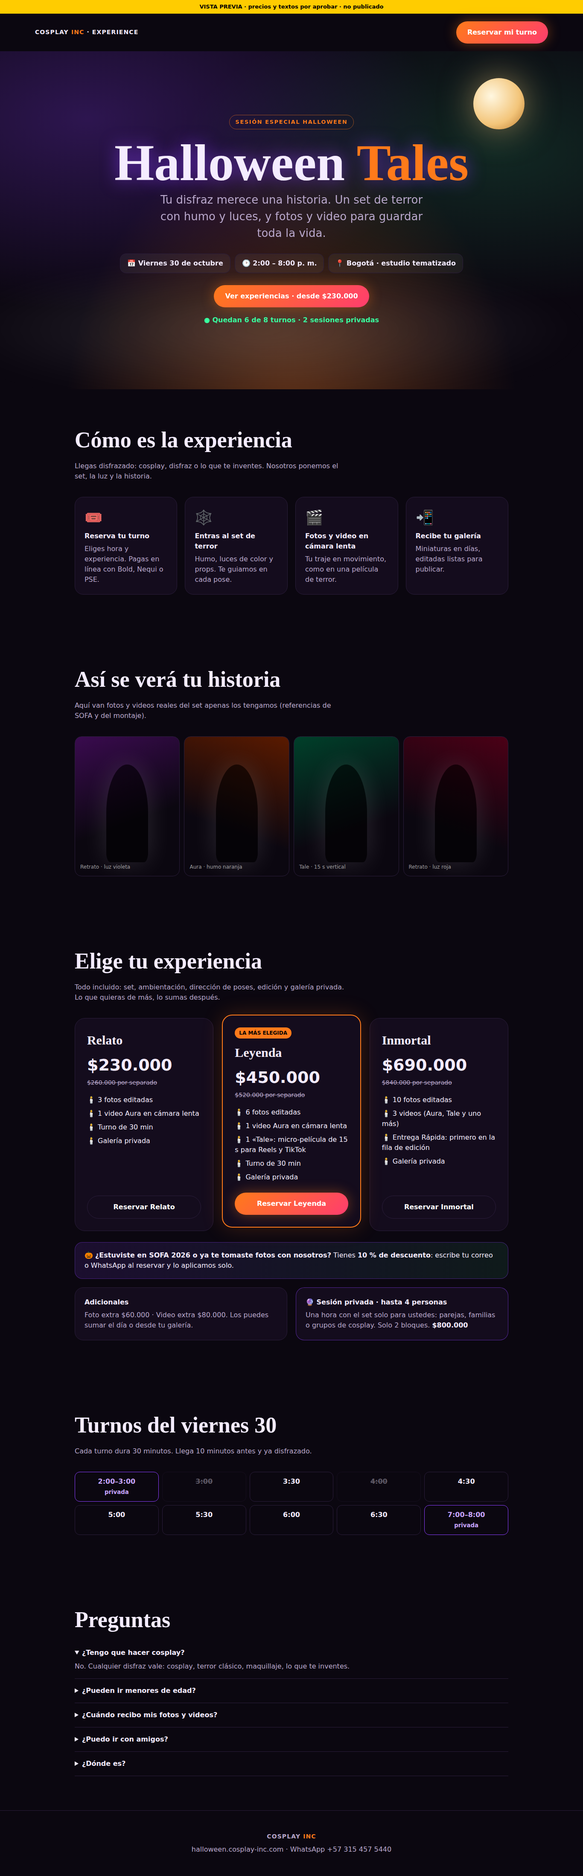
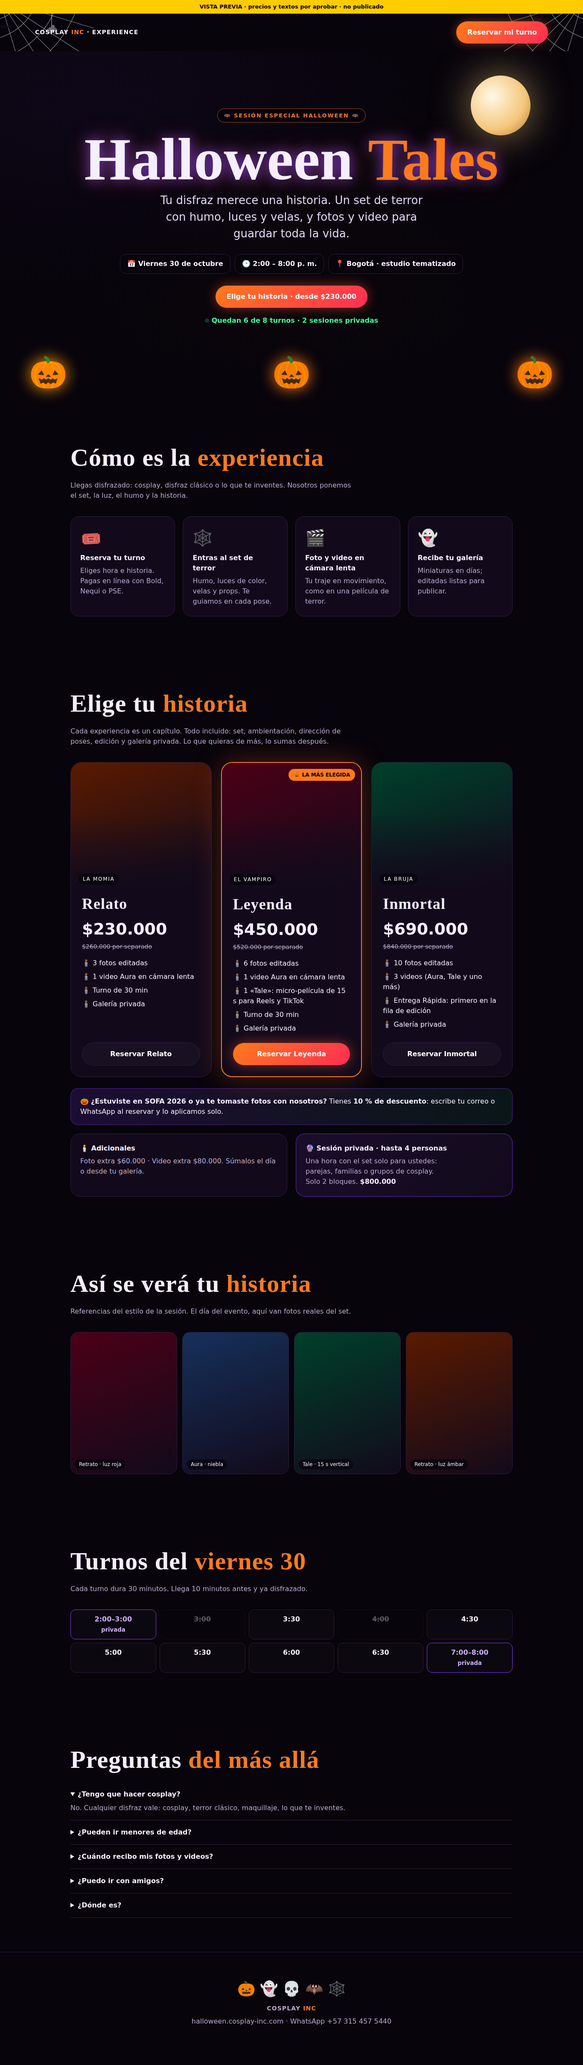
Halloween Tales: página animada con personajes, imágenes Higgsfield y análisis de precios
Claude-Session: https://claude.ai/code/session_015sFCdzMkc8c7GNsiUNJXDD

diff --git a/experiencias/halloween-tales/vista-previa/index.html b/experiencias/halloween-tales/vista-previa/index.html
@@ -4,164 +4,239 @@
 <meta charset="utf-8">
 <meta name="viewport" content="width=device-width, initial-scale=1">
 <title>Halloween Tales · Cosplay Inc</title>
-<link rel="preconnect" href="https://fonts.googleapis.com">
 <style>
-  :root{--fondo:#0b0710;--tinta:#f4ecff;--tenue:#b9a8cc;--naranja:#ff7a1a;--violeta:#8b3dff;--verde:#39ff9f;--borde:#2a1d3a;--tarjeta:#140c1d}
-  *{box-sizing:border-box;margin:0;padding:0}
-  body{background:var(--fondo);color:var(--tinta);font-family:system-ui,-apple-system,"Segoe UI",Roboto,sans-serif;line-height:1.5}
-  a{color:inherit;text-decoration:none}
-  .aviso{background:#ffcc00;color:#000;text-align:center;font-size:13px;font-weight:700;padding:6px}
-  header{display:flex;justify-content:space-between;align-items:center;padding:18px 6vw}
-  .logo{font-weight:800;letter-spacing:.08em;font-size:14px}
-  .logo span{color:var(--naranja)}
-  .boton{display:inline-block;background:linear-gradient(135deg,var(--naranja),#ff3d6e);color:#fff;font-weight:800;padding:14px 26px;border-radius:999px;box-shadow:0 0 30px #ff7a1a66}
-  .boton.sec{background:transparent;border:1px solid var(--borde);box-shadow:none}
-  .hero{position:relative;min-height:88vh;display:grid;place-items:center;text-align:center;padding:60px 6vw;overflow:hidden;
-    background:radial-gradient(ellipse at 50% 110%,#ff7a1a55,transparent 55%),radial-gradient(ellipse at 15% 20%,#8b3dff44,transparent 50%),radial-gradient(ellipse at 85% 30%,#39ff9f22,transparent 45%),var(--fondo)}
-  .niebla{position:absolute;inset:auto -10% -5% -10%;height:45%;background:radial-gradient(ellipse at center,#ffffff22,transparent 65%);filter:blur(30px);animation:niebla 9s ease-in-out infinite alternate}
-  @keyframes niebla{from{transform:translateX(-4%)}to{transform:translateX(4%)}}
-  .luna{position:absolute;top:8%;right:10%;width:120px;height:120px;border-radius:50%;background:radial-gradient(circle at 35% 35%,#fff7e0,#f3c57a 60%,#b9782b);box-shadow:0 0 80px #f3c57a88}
-  .etiqueta{display:inline-block;border:1px solid #ff7a1a88;color:var(--naranja);border-radius:999px;padding:6px 14px;font-size:13px;font-weight:700;letter-spacing:.12em;text-transform:uppercase}
-  h1{font-family:Georgia,"Times New Roman",serif;font-size:clamp(48px,10vw,120px);line-height:.95;margin:22px 0 10px;text-shadow:0 0 40px #8b3dffaa}
-  h1 em{font-style:normal;color:var(--naranja)}
-  .lema{font-size:clamp(18px,2.6vw,26px);color:var(--tenue);max-width:640px;margin:0 auto}
-  .datos{display:flex;flex-wrap:wrap;justify-content:center;gap:10px;margin:28px 0}
-  .dato{background:#ffffff0d;border:1px solid var(--borde);border-radius:14px;padding:10px 16px;font-weight:600}
-  .cupos{margin-top:18px;color:var(--verde);font-weight:700}
-  section{padding:80px 6vw;max-width:1180px;margin:0 auto}
-  h2{font-family:Georgia,serif;font-size:clamp(32px,5vw,52px);margin-bottom:10px}
-  .sub{color:var(--tenue);max-width:640px;margin-bottom:36px}
-  .pasos{display:grid;grid-template-columns:repeat(auto-fit,minmax(220px,1fr));gap:18px}
-  .paso{background:var(--tarjeta);border:1px solid var(--borde);border-radius:20px;padding:22px}
-  .paso b{display:block;font-size:34px;margin-bottom:6px}
-  .galeria{display:grid;grid-template-columns:repeat(4,1fr);gap:10px}
-  .foto{aspect-ratio:3/4;border-radius:16px;border:1px solid var(--borde);display:grid;place-items:end start;padding:12px;font-size:12px;color:#fff9;position:relative;overflow:hidden}
-  .foto:nth-child(1){background:linear-gradient(160deg,#3a0b4f,#0b0710 60%),#000}
-  .foto:nth-child(2){background:linear-gradient(200deg,#5a1a00,#0b0710 65%)}
-  .foto:nth-child(3){background:linear-gradient(160deg,#00402a,#0b0710 65%)}
-  .foto:nth-child(4){background:linear-gradient(200deg,#4b0016,#0b0710 65%)}
-  .foto::before{content:"";position:absolute;inset:20% 30% 10%;border-radius:50% 50% 10% 10%;background:#00000088;box-shadow:0 0 60px #ffffff22}
-  .paquetes{display:grid;grid-template-columns:repeat(auto-fit,minmax(260px,1fr));gap:20px;align-items:stretch}
-  .paquete{background:var(--tarjeta);border:1px solid var(--borde);border-radius:24px;padding:28px;display:flex;flex-direction:column}
-  .paquete.destacado{border:2px solid var(--naranja);box-shadow:0 0 50px #ff7a1a33;transform:translateY(-8px)}
-  .insignia{align-self:flex-start;background:var(--naranja);color:#000;font-size:12px;font-weight:800;border-radius:999px;padding:4px 10px;margin-bottom:10px}
-  .paquete h3{font-family:Georgia,serif;font-size:30px}
-  .precio{font-size:38px;font-weight:800;margin:8px 0 2px}
-  .antes{color:var(--tenue);font-size:14px;text-decoration:line-through}
-  .paquete ul{list-style:none;margin:18px 0 24px;display:grid;gap:8px}
-  .paquete li::before{content:"🕯 "}
-  .paquete .boton{margin-top:auto;text-align:center}
-  .comunidad{margin-top:26px;background:linear-gradient(90deg,#8b3dff22,#39ff9f14);border:1px solid #8b3dff66;border-radius:18px;padding:18px 22px}
-  .extra{display:grid;grid-template-columns:repeat(auto-fit,minmax(260px,1fr));gap:20px;margin-top:20px}
-  .caja{background:var(--tarjeta);border:1px solid var(--borde);border-radius:20px;padding:22px}
-  .turnos{display:grid;grid-template-columns:repeat(5,1fr);gap:8px}
-  .turno{border:1px solid var(--borde);border-radius:12px;padding:10px 0;text-align:center;font-weight:700}
-  .turno.lleno{opacity:.35;text-decoration:line-through}
-  .turno.privado{border-color:var(--violeta);color:#c9a6ff}
-  details{border-bottom:1px solid var(--borde);padding:16px 0}
-  summary{cursor:pointer;font-weight:700}
-  details p{color:var(--tenue);margin-top:8px}
-  footer{text-align:center;color:var(--tenue);padding:50px 6vw;border-top:1px solid var(--borde)}
-  .barra{position:fixed;left:0;right:0;bottom:0;display:none;padding:12px 16px;background:#0b0710ee;border-top:1px solid var(--borde)}
-  @media(max-width:700px){.galeria{grid-template-columns:repeat(2,1fr)}.turnos{grid-template-columns:repeat(3,1fr)}.paquete.destacado{transform:none}.luna{width:70px;height:70px}.barra{display:block}.barra .boton{display:block;text-align:center}header .boton{display:none}}
+:root{--fondo:#07040b;--tinta:#f6eeff;--tenue:#bba9cf;--naranja:#ff7a1a;--violeta:#8b3dff;--verde:#39ff9f;--rojo:#ff2d55;--borde:#2c1d3d;--tarjeta:#120a1b}
+*{box-sizing:border-box;margin:0;padding:0}
+html{scroll-behavior:smooth}
+body{background:var(--fondo);color:var(--tinta);font-family:system-ui,-apple-system,"Segoe UI",Roboto,sans-serif;line-height:1.5;overflow-x:hidden}
+a{color:inherit;text-decoration:none}
+.aviso{position:relative;z-index:50;background:#ffcc00;color:#000;text-align:center;font-size:13px;font-weight:700;padding:6px}
+/* ── capas animadas fijas ── */
+.capa{position:fixed;inset:0;pointer-events:none;z-index:1;overflow:hidden}
+.relampago{position:fixed;inset:0;background:#d9c9ff;opacity:0;pointer-events:none;z-index:2;animation:relampago 11s infinite}
+@keyframes relampago{0%,93%,100%{opacity:0}94%{opacity:.35}95%{opacity:0}96.5%{opacity:.22}97.5%{opacity:0}}
+.niebla{position:absolute;left:-30%;width:160%;height:38vh;bottom:-8vh;background:radial-gradient(ellipse at 30% 60%,#ffffff26,transparent 60%),radial-gradient(ellipse at 70% 50%,#cbb6ff1f,transparent 55%);filter:blur(28px);animation:niebla 18s ease-in-out infinite alternate}
+.niebla.n2{bottom:-14vh;height:30vh;opacity:.7;animation-duration:26s;animation-direction:alternate-reverse}
+@keyframes niebla{from{transform:translateX(-8%)}to{transform:translateX(8%)}}
+.fantasma{position:absolute;width:70px;opacity:.75;filter:drop-shadow(0 0 18px #ffffffaa);animation:flotar 7s ease-in-out infinite}
+.fantasma svg{width:100%;height:auto}
+@keyframes flotar{0%,100%{transform:translate(0,0) rotate(-4deg)}50%{transform:translate(18px,-26px) rotate(4deg)}}
+.fantasma.viaja{animation:viaje 24s linear infinite}
+@keyframes viaje{0%{transform:translate(-15vw,20vh);opacity:0}10%{opacity:.7}50%{transform:translate(50vw,5vh)}90%{opacity:.7}100%{transform:translate(115vw,25vh);opacity:0}}
+.murcielago{position:absolute;width:46px;animation:volar 14s linear infinite}
+.murcielago svg{width:100%;animation:aletear .25s ease-in-out infinite alternate;transform-origin:center}
+@keyframes aletear{from{transform:scaleY(1)}to{transform:scaleY(.45)}}
+@keyframes volar{0%{transform:translate(110vw,12vh)}100%{transform:translate(-20vw,-6vh)}}
+.telarana{position:absolute;width:220px;opacity:.55}
+.telarana.izq{top:0;left:0}.telarana.der{top:0;right:0;transform:scaleX(-1)}
+.arana{position:absolute;top:0;left:120px;width:2px;background:#ffffff66;animation:colgar 6s ease-in-out infinite}
+.arana::after{content:"🕷";position:absolute;bottom:-18px;left:-11px;font-size:22px}
+@keyframes colgar{0%,100%{height:60px}50%{height:190px}}
+/* ── encabezado ── */
+header{position:relative;z-index:10;display:flex;justify-content:space-between;align-items:center;padding:18px 6vw}
+.logo{font-weight:800;letter-spacing:.08em;font-size:14px}.logo span{color:var(--naranja)}
+.boton{display:inline-block;background:linear-gradient(135deg,var(--naranja),var(--rojo));color:#fff;font-weight:800;padding:14px 26px;border-radius:999px;box-shadow:0 0 30px #ff7a1a77;transition:transform .2s;animation:latido 2.6s ease-in-out infinite}
+.boton:hover{transform:scale(1.06)}
+@keyframes latido{0%,100%{box-shadow:0 0 22px #ff7a1a66}50%{box-shadow:0 0 44px #ff2d55aa}}
+.boton.sec{background:#ffffff08;border:1px solid var(--borde);box-shadow:none;animation:none}
+/* ── portada ── */
+.hero{position:relative;z-index:5;min-height:92vh;display:grid;place-items:center;text-align:center;padding:70px 6vw 120px;overflow:hidden;
+ background:linear-gradient(180deg,#07040bcc,#07040b 92%),url("https://d8j0ntlcm91z4.cloudfront.net/user_3GpmMSlhlwuiXiNZMT5QXNIqOkj/hf_20261015_162303_849728c2-830c-4a16-934f-2665082defdd.png") center/cover,radial-gradient(ellipse at 50% 110%,#ff7a1a66,transparent 55%),radial-gradient(ellipse at 15% 20%,#8b3dff55,transparent 50%),var(--fondo)}
+.luna{position:absolute;top:7%;right:9%;width:140px;height:140px;border-radius:50%;background:radial-gradient(circle at 35% 35%,#fff8e6,#f4c77c 60%,#b7772b);box-shadow:0 0 90px #f4c77c99;animation:luna 6s ease-in-out infinite}
+@keyframes luna{50%{box-shadow:0 0 140px #f4c77ccc}}
+.etiqueta{display:inline-block;border:1px solid #ff7a1a99;color:var(--naranja);border-radius:999px;padding:6px 14px;font-size:13px;font-weight:700;letter-spacing:.14em;text-transform:uppercase;background:#07040b99}
+h1{font-family:"Creepster",Georgia,serif;font-size:clamp(56px,11vw,140px);line-height:.92;margin:22px 0 12px;text-shadow:0 0 30px #8b3dffcc,0 0 60px #ff7a1a55;animation:titila 4s infinite}
+h1 em{font-style:normal;color:var(--naranja);display:inline-block;animation:goteo 3s ease-in-out infinite}
+@keyframes titila{0%,100%{opacity:1}92%{opacity:1}93%{opacity:.4}94%{opacity:1}96%{opacity:.6}97%{opacity:1}}
+@keyframes goteo{50%{transform:translateY(4px) skewX(-3deg)}}
+.lema{font-size:clamp(18px,2.6vw,26px);color:#e4d6f5;max-width:660px;margin:0 auto}
+.datos{display:flex;flex-wrap:wrap;justify-content:center;gap:10px;margin:28px 0}
+.dato{background:#07040bb3;border:1px solid var(--borde);border-radius:14px;padding:10px 16px;font-weight:600;backdrop-filter:blur(4px)}
+.cupos{margin-top:18px;color:var(--verde);font-weight:700}.cupos b{display:inline-block;width:10px;height:10px;border-radius:50%;background:var(--verde);margin-right:6px;animation:parpadeo 1.2s infinite}
+@keyframes parpadeo{50%{opacity:.2}}
+.calabazas{position:absolute;bottom:22px;left:0;right:0;display:flex;justify-content:space-between;padding:0 5vw;z-index:6;pointer-events:none}
+.calabaza{font-size:clamp(42px,6vw,72px);animation:brillo 2.2s ease-in-out infinite;filter:drop-shadow(0 0 18px #ff7a1a)}
+.calabaza:nth-child(2){animation-delay:.7s}.calabaza:nth-child(3){animation-delay:1.4s}
+@keyframes brillo{0%,100%{filter:drop-shadow(0 0 10px #ff7a1a) brightness(.9)}45%{filter:drop-shadow(0 0 28px #ffb000) brightness(1.25)}55%{filter:drop-shadow(0 0 14px #ff7a1a) brightness(1)}}
+.calavera{position:absolute;font-size:34px;opacity:.5;animation:girar 9s ease-in-out infinite}
+@keyframes girar{0%,100%{transform:rotate(-12deg) translateY(0)}50%{transform:rotate(12deg) translateY(-14px)}}
+/* ── secciones ── */
+main{position:relative;z-index:5}
+section{padding:80px 6vw;max-width:1200px;margin:0 auto}
+h2{font-family:"Creepster",Georgia,serif;font-size:clamp(34px,5.4vw,58px);margin-bottom:10px;letter-spacing:.02em}
+h2 span{color:var(--naranja)}
+.sub{color:var(--tenue);max-width:660px;margin-bottom:36px}
+.pasos{display:grid;grid-template-columns:repeat(auto-fit,minmax(220px,1fr));gap:18px}
+.paso{background:var(--tarjeta);border:1px solid var(--borde);border-radius:20px;padding:22px;transition:transform .3s,border-color .3s}
+.paso:hover{transform:translateY(-6px);border-color:var(--naranja)}
+.paso b{display:block;font-size:38px;margin-bottom:6px;animation:flotar 5s ease-in-out infinite}
+.paso:nth-child(2) b{animation-delay:1s}.paso:nth-child(3) b{animation-delay:2s}.paso:nth-child(4) b{animation-delay:3s}
+/* ── paquetes con personajes ── */
+.paquetes{display:grid;grid-template-columns:repeat(auto-fit,minmax(280px,1fr));gap:22px;align-items:stretch}
+.paquete{position:relative;border:1px solid var(--borde);border-radius:26px;overflow:hidden;display:flex;flex-direction:column;background:var(--tarjeta);transition:transform .35s}
+.paquete:hover{transform:translateY(-8px) rotate(-.5deg)}
+.retrato{height:300px;background-size:cover;background-position:center 20%;position:relative}
+.retrato::after{content:"";position:absolute;inset:0;background:linear-gradient(180deg,transparent 40%,var(--tarjeta))}
+.retrato .personaje{position:absolute;left:18px;bottom:14px;z-index:2;font-size:12px;letter-spacing:.14em;text-transform:uppercase;color:#fff;background:#07040bb3;border-radius:999px;padding:4px 10px}
+.paquete .cuerpo{padding:4px 26px 26px;display:flex;flex-direction:column;flex:1}
+.paquete.destacado{border:2px solid var(--naranja);box-shadow:0 0 60px #ff7a1a44;animation:aura 3s ease-in-out infinite}
+@keyframes aura{50%{box-shadow:0 0 90px #ff2d5566}}
+.insignia{position:absolute;top:14px;right:14px;z-index:3;background:var(--naranja);color:#000;font-size:12px;font-weight:800;border-radius:999px;padding:5px 12px}
+.paquete h3{font-family:"Creepster",Georgia,serif;font-size:36px;letter-spacing:.03em}
+.precio{font-size:38px;font-weight:800;margin:4px 0 2px}
+.antes{color:var(--tenue);font-size:14px;text-decoration:line-through}
+.paquete ul{list-style:none;margin:16px 0 22px;display:grid;gap:8px}
+.paquete li::before{content:"🕯 ";animation:vela 1.4s infinite}
+@keyframes vela{50%{opacity:.6}}
+.paquete .boton{margin-top:auto;text-align:center}
+.comunidad{margin-top:26px;background:linear-gradient(90deg,#8b3dff2a,#39ff9f14);border:1px solid #8b3dff77;border-radius:18px;padding:18px 22px}
+.extra{display:grid;grid-template-columns:repeat(auto-fit,minmax(280px,1fr));gap:20px;margin-top:20px}
+.caja{background:var(--tarjeta);border:1px solid var(--borde);border-radius:22px;padding:22px;position:relative;overflow:hidden}
+.caja.privada{border-color:#8b3dffaa;background:linear-gradient(135deg,#1a0d2b,#120a1b)}
+.caja.privada .fondo{position:absolute;right:-20px;bottom:-20px;width:170px;height:220px;background:url("https://d8j0ntlcm91z4.cloudfront.net/user_3GpmMSlhlwuiXiNZMT5QXNIqOkj/hf_20261015_162302_8e1e8264-ac9d-4503-8ead-c0cae7add087.png") center/cover;opacity:.35;border-radius:20px;mask-image:linear-gradient(90deg,transparent,#000)}
+.galeria{display:grid;grid-template-columns:repeat(4,1fr);gap:12px}
+.foto{aspect-ratio:3/4;border-radius:18px;border:1px solid var(--borde);background-size:cover;background-position:center;position:relative;overflow:hidden;transition:transform .4s}
+.foto:hover{transform:scale(1.04)}
+.foto span{position:absolute;left:10px;bottom:10px;font-size:12px;background:#07040bb3;padding:3px 9px;border-radius:999px}
+.turnos{display:grid;grid-template-columns:repeat(5,1fr);gap:8px}
+.turno{border:1px solid var(--borde);border-radius:12px;padding:10px 0;text-align:center;font-weight:700;background:#ffffff05}
+.turno.lleno{opacity:.35;text-decoration:line-through}
+.turno.privado{border-color:var(--violeta);color:#cfaeff}
+details{border-bottom:1px solid var(--borde);padding:16px 0}summary{cursor:pointer;font-weight:700}details p{color:var(--tenue);margin-top:8px}
+footer{position:relative;z-index:5;text-align:center;color:var(--tenue);padding:60px 6vw 90px;border-top:1px solid var(--borde)}
+.barra{position:fixed;left:0;right:0;bottom:0;z-index:40;display:none;padding:12px 16px;background:#07040bee;border-top:1px solid var(--borde)}
+@media(max-width:700px){.galeria{grid-template-columns:repeat(2,1fr)}.turnos{grid-template-columns:repeat(3,1fr)}.luna{width:80px;height:80px}.barra{display:block}.barra .boton{display:block;text-align:center}header .boton{display:none}.telarana{width:130px}.fantasma{width:48px}}
+@media(prefers-reduced-motion:reduce){*,*::before,*::after{animation:none!important}}
 </style>
+<link href="https://fonts.googleapis.com/css2?family=Creepster&display=swap" rel="stylesheet">
 </head>
 <body>
 <div class="aviso">VISTA PREVIA · precios y textos por aprobar · no publicado</div>
+
+<!-- capas animadas -->
+<div class="relampago"></div>
+<div class="capa" aria-hidden="true">
+  <svg class="telarana izq" viewBox="0 0 200 200"><g fill="none" stroke="#fff" stroke-width="1"><path d="M0 0L200 200M0 0L200 60M0 0L60 200M0 0L130 200M0 0L200 130"/><path d="M40 0Q30 30 0 40M80 0Q60 60 0 80M125 0Q95 95 0 125M170 0Q130 130 0 170"/></g></svg>
+  <svg class="telarana der" viewBox="0 0 200 200"><g fill="none" stroke="#fff" stroke-width="1"><path d="M0 0L200 200M0 0L200 60M0 0L60 200M0 0L130 200M0 0L200 130"/><path d="M40 0Q30 30 0 40M80 0Q60 60 0 80M125 0Q95 95 0 125M170 0Q130 130 0 170"/></g></svg>
+  <div class="arana"></div>
+  <div class="fantasma" style="top:28%;left:6%"><svg viewBox="0 0 100 120"><path d="M50 5C25 5 10 25 10 50v60l13-10 13 10 14-10 14 10 13-10 13 10V50C90 25 75 5 50 5z" fill="#f4f0ff"/><circle cx="36" cy="48" r="7" fill="#1b1027"/><circle cx="64" cy="48" r="7" fill="#1b1027"/><ellipse cx="50" cy="72" rx="8" ry="10" fill="#1b1027"/></svg></div>
+  <div class="fantasma" style="top:55%;right:5%;animation-delay:2s"><svg viewBox="0 0 100 120"><path d="M50 5C25 5 10 25 10 50v60l13-10 13 10 14-10 14 10 13-10 13 10V50C90 25 75 5 50 5z" fill="#f4f0ff"/><circle cx="36" cy="48" r="7" fill="#1b1027"/><circle cx="64" cy="48" r="7" fill="#1b1027"/><path d="M38 70q12 10 24 0" stroke="#1b1027" stroke-width="5" fill="none"/></svg></div>
+  <div class="fantasma viaja" style="top:0;left:0;width:56px"><svg viewBox="0 0 100 120"><path d="M50 5C25 5 10 25 10 50v60l13-10 13 10 14-10 14 10 13-10 13 10V50C90 25 75 5 50 5z" fill="#e9e2ff"/><circle cx="36" cy="48" r="7" fill="#1b1027"/><circle cx="64" cy="48" r="7" fill="#1b1027"/></svg></div>
+  <div class="murcielago" style="top:10%"><svg viewBox="0 0 100 50"><path d="M50 20c-4-8-10-8-12-2-6-10-20-12-38-4 12 2 18 10 18 18 6-6 14-4 18 2 4-6 10-6 14-4 4-2 10-2 14 4 4-6 12-8 18-2 0-8 6-16 18-18-18-8-32-6-38 4-2-6-8-6-12 2z" fill="#140a1f"/></svg></div>
+  <div class="murcielago" style="top:22%;animation-delay:4s;animation-duration:17s;width:34px"><svg viewBox="0 0 100 50"><path d="M50 20c-4-8-10-8-12-2-6-10-20-12-38-4 12 2 18 10 18 18 6-6 14-4 18 2 4-6 10-6 14-4 4-2 10-2 14 4 4-6 12-8 18-2 0-8 6-16 18-18-18-8-32-6-38 4-2-6-8-6-12 2z" fill="#140a1f"/></svg></div>
+  <div class="murcielago" style="top:6%;animation-delay:9s;animation-duration:12s;width:28px"><svg viewBox="0 0 100 50"><path d="M50 20c-4-8-10-8-12-2-6-10-20-12-38-4 12 2 18 10 18 18 6-6 14-4 18 2 4-6 10-6 14-4 4-2 10-2 14 4 4-6 12-8 18-2 0-8 6-16 18-18-18-8-32-6-38 4-2-6-8-6-12 2z" fill="#140a1f"/></svg></div>
+  <div class="calavera" style="top:40%;left:2%">💀</div>
+  <div class="calavera" style="top:75%;right:3%;animation-delay:3s">💀</div>
+  <div class="niebla"></div><div class="niebla n2"></div>
+</div>
+
 <header>
   <div class="logo">COSPLAY <span>INC</span> · EXPERIENCE</div>
   <a class="boton" href="#paquetes">Reservar mi turno</a>
 </header>
 
 <div class="hero">
-  <div class="luna"></div><div class="niebla"></div>
-  <div style="position:relative">
-    <span class="etiqueta">Sesión especial Halloween</span>
+  <div class="luna"></div>
+  <div style="position:relative;z-index:7">
+    <span class="etiqueta">🦇 Sesión especial Halloween 🦇</span>
     <h1>Halloween <em>Tales</em></h1>
-    <p class="lema">Tu disfraz merece una historia. Un set de terror con humo y luces, y fotos y video para guardar toda la vida.</p>
+    <p class="lema">Tu disfraz merece una historia. Un set de terror con humo, luces y velas, y fotos y video para guardar toda la vida.</p>
     <div class="datos">
       <span class="dato">📅 Viernes 30 de octubre</span>
       <span class="dato">🕑 2:00 – 8:00 p. m.</span>
       <span class="dato">📍 Bogotá · estudio tematizado</span>
     </div>
-    <a class="boton" href="#paquetes">Ver experiencias · desde $230.000</a>
-    <p class="cupos">● Quedan 6 de 8 turnos · 2 sesiones privadas</p>
+    <a class="boton" href="#paquetes">Elige tu historia · desde $230.000</a>
+    <p class="cupos"><b></b>Quedan 6 de 8 turnos · 2 sesiones privadas</p>
   </div>
+  <div class="calabazas"><span class="calabaza">🎃</span><span class="calabaza">🎃</span><span class="calabaza">🎃</span></div>
 </div>
 
+<main>
 <section>
-  <h2>Cómo es la experiencia</h2>
-  <p class="sub">Llegas disfrazado: cosplay, disfraz o lo que te inventes. Nosotros ponemos el set, la luz y la historia.</p>
+  <h2>Cómo es la <span>experiencia</span></h2>
+  <p class="sub">Llegas disfrazado: cosplay, disfraz clásico o lo que te inventes. Nosotros ponemos el set, la luz, el humo y la historia.</p>
   <div class="pasos">
-    <div class="paso"><b>🎟</b><strong>Reserva tu turno</strong><p class="sub" style="margin:6px 0 0">Eliges hora y experiencia. Pagas en línea con Bold, Nequi o PSE.</p></div>
-    <div class="paso"><b>🕸</b><strong>Entras al set de terror</strong><p class="sub" style="margin:6px 0 0">Humo, luces de color y props. Te guiamos en cada pose.</p></div>
-    <div class="paso"><b>🎬</b><strong>Fotos y video en cámara lenta</strong><p class="sub" style="margin:6px 0 0">Tu traje en movimiento, como en una película de terror.</p></div>
-    <div class="paso"><b>📲</b><strong>Recibe tu galería</strong><p class="sub" style="margin:6px 0 0">Miniaturas en días, editadas listas para publicar.</p></div>
-  </div>
-</section>
-
-<section>
-  <h2>Así se verá tu historia</h2>
-  <p class="sub">Aquí van fotos y videos reales del set apenas los tengamos (referencias de SOFA y del montaje).</p>
-  <div class="galeria">
-    <div class="foto">Retrato · luz violeta</div>
-    <div class="foto">Aura · humo naranja</div>
-    <div class="foto">Tale · 15 s vertical</div>
-    <div class="foto">Retrato · luz roja</div>
+    <div class="paso"><b>🎟</b><strong>Reserva tu turno</strong><p class="sub" style="margin:6px 0 0">Eliges hora e historia. Pagas en línea con Bold, Nequi o PSE.</p></div>
+    <div class="paso"><b>🕸</b><strong>Entras al set de terror</strong><p class="sub" style="margin:6px 0 0">Humo, luces de color, velas y props. Te guiamos en cada pose.</p></div>
+    <div class="paso"><b>🎬</b><strong>Foto y video en cámara lenta</strong><p class="sub" style="margin:6px 0 0">Tu traje en movimiento, como en una película de terror.</p></div>
+    <div class="paso"><b>👻</b><strong>Recibe tu galería</strong><p class="sub" style="margin:6px 0 0">Miniaturas en días; editadas listas para publicar.</p></div>
   </div>
 </section>
 
 <section id="paquetes">
-  <h2>Elige tu experiencia</h2>
-  <p class="sub">Todo incluido: set, ambientación, dirección de poses, edición y galería privada. Lo que quieras de más, lo sumas después.</p>
+  <h2>Elige tu <span>historia</span></h2>
+  <p class="sub">Cada experiencia es un capítulo. Todo incluido: set, ambientación, dirección de poses, edición y galería privada. Lo que quieras de más, lo sumas después.</p>
   <div class="paquetes">
     <div class="paquete">
-      <h3>Relato</h3>
-      <div class="precio">$230.000</div><div class="antes">$260.000 por separado</div>
-      <ul><li>3 fotos editadas</li><li>1 video Aura en cámara lenta</li><li>Turno de 30 min</li><li>Galería privada</li></ul>
-      <a class="boton sec" href="#">Reservar Relato</a>
+      <div class="retrato" style="background-image:url('https://d8j0ntlcm91z4.cloudfront.net/user_3GpmMSlhlwuiXiNZMT5QXNIqOkj/hf_20261015_162303_5203dd35-5ed4-409b-836b-36178c081cd9.png'),linear-gradient(160deg,#5a1a00,#120a1b)"><span class="personaje">La Momia</span></div>
+      <div class="cuerpo">
+        <h3>Relato</h3>
+        <div class="precio">$230.000</div><div class="antes">$260.000 por separado</div>
+        <ul><li>3 fotos editadas</li><li>1 video Aura en cámara lenta</li><li>Turno de 30 min</li><li>Galería privada</li></ul>
+        <a class="boton sec" href="#">Reservar Relato</a>
+      </div>
     </div>
     <div class="paquete destacado">
-      <span class="insignia">LA MÁS ELEGIDA</span>
-      <h3>Leyenda</h3>
-      <div class="precio">$450.000</div><div class="antes">$520.000 por separado</div>
-      <ul><li>6 fotos editadas</li><li>1 video Aura en cámara lenta</li><li>1 «Tale»: micro-película de 15 s para Reels y TikTok</li><li>Turno de 30 min</li><li>Galería privada</li></ul>
-      <a class="boton" href="#">Reservar Leyenda</a>
+      <span class="insignia">🎃 LA MÁS ELEGIDA</span>
+      <div class="retrato" style="background-image:url('https://d8j0ntlcm91z4.cloudfront.net/user_3GpmMSlhlwuiXiNZMT5QXNIqOkj/hf_20261015_162327_268b13db-2ada-4bbe-8584-8db9639793de.png'),linear-gradient(160deg,#4b0016,#120a1b)"><span class="personaje">El Vampiro</span></div>
+      <div class="cuerpo">
+        <h3>Leyenda</h3>
+        <div class="precio">$450.000</div><div class="antes">$520.000 por separado</div>
+        <ul><li>6 fotos editadas</li><li>1 video Aura en cámara lenta</li><li>1 «Tale»: micro-película de 15 s para Reels y TikTok</li><li>Turno de 30 min</li><li>Galería privada</li></ul>
+        <a class="boton" href="#">Reservar Leyenda</a>
+      </div>
     </div>
     <div class="paquete">
-      <h3>Inmortal</h3>
-      <div class="precio">$690.000</div><div class="antes">$840.000 por separado</div>
-      <ul><li>10 fotos editadas</li><li>3 videos (Aura, Tale y uno más)</li><li>Entrega Rápida: primero en la fila de edición</li><li>Galería privada</li></ul>
-      <a class="boton sec" href="#">Reservar Inmortal</a>
+      <div class="retrato" style="background-image:url('https://d8j0ntlcm91z4.cloudfront.net/user_3GpmMSlhlwuiXiNZMT5QXNIqOkj/hf_20261015_162327_3815e883-7166-4349-a964-6bba51e9df03.png'),linear-gradient(160deg,#00402a,#120a1b)"><span class="personaje">La Bruja</span></div>
+      <div class="cuerpo">
+        <h3>Inmortal</h3>
+        <div class="precio">$690.000</div><div class="antes">$840.000 por separado</div>
+        <ul><li>10 fotos editadas</li><li>3 videos (Aura, Tale y uno más)</li><li>Entrega Rápida: primero en la fila de edición</li><li>Galería privada</li></ul>
+        <a class="boton sec" href="#">Reservar Inmortal</a>
+      </div>
     </div>
   </div>
   <div class="comunidad">🎃 <strong>¿Estuviste en SOFA 2026 o ya te tomaste fotos con nosotros?</strong> Tienes <strong>10 % de descuento</strong>: escribe tu correo o WhatsApp al reservar y lo aplicamos solo.</div>
   <div class="extra">
-    <div class="caja"><strong>Adicionales</strong><p class="sub" style="margin:6px 0 0">Foto extra $60.000 · Video extra $80.000. Los puedes sumar el día o desde tu galería.</p></div>
-    <div class="caja" style="border-color:#8b3dff88"><strong>🔮 Sesión privada · hasta 4 personas</strong><p class="sub" style="margin:6px 0 0">Una hora con el set solo para ustedes: parejas, familias o grupos de cosplay. Solo 2 bloques. <b style="color:var(--tinta)">$800.000</b></p></div>
+    <div class="caja"><strong>🕯 Adicionales</strong><p class="sub" style="margin:6px 0 0">Foto extra $60.000 · Video extra $80.000. Súmalos el día o desde tu galería.</p></div>
+    <div class="caja privada"><div class="fondo"></div><strong>🔮 Sesión privada · hasta 4 personas</strong><p class="sub" style="margin:6px 0 0;max-width:70%">Una hora con el set solo para ustedes: parejas, familias o grupos de cosplay. Solo 2 bloques. <b style="color:var(--tinta)">$800.000</b></p></div>
   </div>
 </section>
 
 <section>
-  <h2>Turnos del viernes 30</h2>
+  <h2>Así se verá tu <span>historia</span></h2>
+  <p class="sub">Referencias del estilo de la sesión. El día del evento, aquí van fotos reales del set.</p>
+  <div class="galeria">
+    <div class="foto" style="background-image:url('https://d8j0ntlcm91z4.cloudfront.net/user_3GpmMSlhlwuiXiNZMT5QXNIqOkj/hf_20261015_162327_268b13db-2ada-4bbe-8584-8db9639793de.png'),linear-gradient(160deg,#4b0016,#120a1b)"><span>Retrato · luz roja</span></div>
+    <div class="foto" style="background-image:url('https://d8j0ntlcm91z4.cloudfront.net/user_3GpmMSlhlwuiXiNZMT5QXNIqOkj/hf_20261015_162302_8e1e8264-ac9d-4503-8ead-c0cae7add087.png'),linear-gradient(160deg,#16305a,#120a1b)"><span>Aura · niebla</span></div>
+    <div class="foto" style="background-image:url('https://d8j0ntlcm91z4.cloudfront.net/user_3GpmMSlhlwuiXiNZMT5QXNIqOkj/hf_20261015_162327_3815e883-7166-4349-a964-6bba51e9df03.png'),linear-gradient(160deg,#00402a,#120a1b)"><span>Tale · 15 s vertical</span></div>
+    <div class="foto" style="background-image:url('https://d8j0ntlcm91z4.cloudfront.net/user_3GpmMSlhlwuiXiNZMT5QXNIqOkj/hf_20261015_162303_5203dd35-5ed4-409b-836b-36178c081cd9.png'),linear-gradient(160deg,#5a1a00,#120a1b)"><span>Retrato · luz ámbar</span></div>
+  </div>
+</section>
+
+<section>
+  <h2>Turnos del <span>viernes 30</span></h2>
   <p class="sub">Cada turno dura 30 minutos. Llega 10 minutos antes y ya disfrazado.</p>
   <div class="turnos">
-    <div class="turno privado">2:00–3:00<br><small>privada</small></div><div class="turno lleno">3:00</div><div class="turno">3:30</div><div class="turno lleno">4:00</div><div class="turno">4:30</div><div class="turno">5:00</div>
-    <div class="turno">5:30</div><div class="turno">6:00</div><div class="turno">6:30</div><div class="turno privado">7:00–8:00<br><small>privada</small></div>
+    <div class="turno privado">2:00–3:00<br><small>privada</small></div><div class="turno lleno">3:00</div><div class="turno">3:30</div><div class="turno lleno">4:00</div><div class="turno">4:30</div>
+    <div class="turno">5:00</div><div class="turno">5:30</div><div class="turno">6:00</div><div class="turno">6:30</div><div class="turno privado">7:00–8:00<br><small>privada</small></div>
   </div>
 </section>
 
 <section>
-  <h2>Preguntas</h2>
+  <h2>Preguntas <span>del más allá</span></h2>
   <details open><summary>¿Tengo que hacer cosplay?</summary><p>No. Cualquier disfraz vale: cosplay, terror clásico, maquillaje, lo que te inventes.</p></details>
   <details><summary>¿Pueden ir menores de edad?</summary><p>Sí, con un acudiente presente que autoriza la sesión al reservar.</p></details>
   <details><summary>¿Cuándo recibo mis fotos y videos?</summary><p>Las miniaturas te llegan en los días siguientes para que elijas; las editadas según tu experiencia (Inmortal con Entrega Rápida).</p></details>
-  <details><summary>¿Puedo ir con amigos?</summary><p>Sí: reserva cada uno su turno seguido, o toma la sesión privada para hasta 4 personas.</p></details>
+  <details><summary>¿Puedo ir con amigos?</summary><p>Sí: reserven turnos seguidos, o tomen la sesión privada para hasta 4 personas.</p></details>
   <details><summary>¿Dónde es?</summary><p>En un estudio tematizado en Bogotá. La dirección exacta te llega al reservar.</p></details>
 </section>
+</main>
 
 <footer>
-  <p class="logo">COSPLAY <span>INC</span></p>
+  <p style="font-size:34px">🎃 👻 💀 🦇 🕸</p>
+  <p class="logo" style="margin-top:10px">COSPLAY <span>INC</span></p>
   <p style="margin-top:8px">halloween.cosplay-inc.com · WhatsApp +57 315 457 5440</p>
 </footer>
 <div class="barra"><a class="boton" href="#paquetes">Reservar · desde $230.000</a></div>

diff --git a/experiencias/halloween-tales/PLAN.md b/experiencias/halloween-tales/PLAN.md
@@ -229,3 +229,48 @@ final se compara lo presupuestado con lo real.
 con el mismo sistema de comunicados, ampliado para campañas de venta.
 
 **Imágenes promocionales con Higgsfield:** solo con adultos o sin personas reconocibles; nunca con menores.
+
+---
+
+## 9. ¿$40.000 o $60.000 por foto? Del modelo SOFA al modelo Experience
+
+**SOFA (feria):**
+- muchísima gente pasando y venta rápida;
+- el espacio lo pone el evento;
+- precio bajo por pieza ($40.000), que se gana por **volumen**.
+
+**Halloween Tales (experiencia):**
+- 10 a 20 personas;
+- el estudio, la escenografía y la pauta los pagamos nosotros;
+- se gana por **valor**: lo que se vende es la experiencia completa, no la pieza suelta.
+
+Con 10 a 20 cupos no hay volumen que compense un precio de feria.
+
+| Precio base (foto / video) | Relato · Leyenda · Inmortal | Ticket promedio* | Ingreso con 12 | Ingreso con 16 | ¿Llega al doble con $2,2 M de gasto? |
+|---|---|---|---|---|---|
+| **$40.000 / $50.000** (SOFA) | $150.000 · $300.000 · $460.000 | ≈ $240.000 | $2,9 M | $3,8 M | ❌ ni con 16 cupos |
+| $50.000 / $70.000 | $195.000 · $380.000 · $590.000 | ≈ $306.000 | $3,7 M | $4,9 M | ⚠ solo con 15 o más |
+| **$60.000 / $80.000** (recomendado) | $230.000 · $450.000 · $690.000 | ≈ $361.000 | $4,3 M | $5,8 M | ✅ desde 12 cupos |
+
+*Mezcla supuesta: 50 % Relato, 35 % Leyenda, 15 % Inmortal, con el descuento
+comunidad aplicado al 40 % de los compradores.
+
+**Recomendación: mantener $60.000 por foto y $80.000 por video.**
+
+**Cómo pasar del modelo SOFA sin espantar a la base:**
+1. **No mostrar el precio por foto suelta en la portada.** Se muestra la experiencia
+   («desde $230.000»). El precio por pieza solo aparece en «Adicionales».
+2. **Descuento comunidad del 10 %** para quien estuvo en SOFA. La foto les queda
+   efectivamente en ≈ $54.000, y el salto desde $40.000 se siente justificado
+   por el set y la ambientación.
+3. **Comunicar por qué vale más:**
+   - set exclusivo de terror con humo, luces y props;
+   - turno con hora, sin fila;
+   - dirección de poses;
+   - video tipo película.
+   En SOFA era una feria con fila; aquí es una sesión.
+4. **Precio de lanzamiento** (opcional): los primeros 4 cupos o hasta el 20 de
+   octubre con el descuento comunidad abierto a todos. Crea urgencia sin bajar
+   el precio de lista.
+5. **Mismos precios en todas las futuras Experiences** (Navidad, Año Nuevo), para
+   que el mercado asocie «Experience» con un precio distinto al de «feria».
